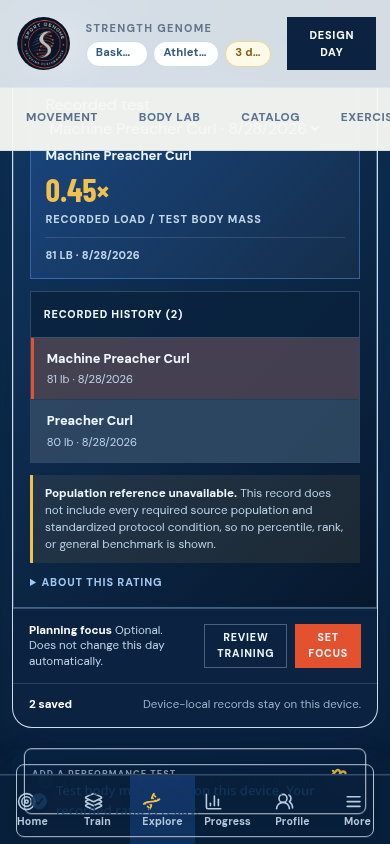
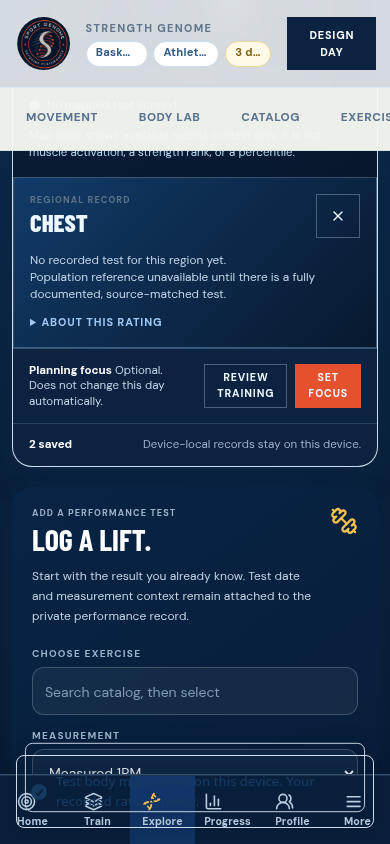
Checkpoint: Published an accessible compact Strength Genome region selector alongside the interactive body map. Athletes can now open either recorded or unrecorded regional detail without relying on SVG click targets; each selector button has a 44px target and accurately states Recorded or No test. 

diff --git a/client/src/index.css b/client/src/index.css
@@ -842,6 +842,7 @@ select {
 .strength-body-map { padding: clamp(1rem, 3vw, 1.5rem); background: linear-gradient(145deg, #0b294b, #07182e); color: #edf7ff; }
 .strength-body-map-head { display: flex; align-items: flex-start; justify-content: space-between; gap: 1rem; }.strength-body-map-head h2 { margin-top: .25rem; font-family: var(--font-display, "Barlow Condensed", sans-serif); font-size: clamp(1.8rem, 5vw, 2.8rem); font-weight: 800; line-height: .9; text-transform: uppercase; }.strength-body-map-head h2 em { color: #f2c14d; }.strength-body-map-head button { display: inline-flex; min-height: 44px; align-items: center; gap: .45rem; border: 1px solid rgb(164 200 232 / .45); background: rgb(255 255 255 / .06); padding: 0 .75rem; color: #edf7ff; font-size: .7rem; font-weight: 900; letter-spacing: .08em; text-transform: uppercase; }
 .strength-body-chart { min-height: 400px; margin-top: 1rem; border: 1px solid rgb(164 200 232 / .25); background: radial-gradient(circle at center, rgb(45 108 223 / .14), transparent 68%); }.strength-body-chart .body-chart { max-width: 100%; }.strength-body-map-legend { display: flex; flex-wrap: wrap; gap: .75rem 1rem; margin-top: 1rem; color: #c3d7ea; font-size: .72rem; }.strength-body-map-legend span { display: inline-flex; align-items: center; gap: .42rem; }.strength-body-map-legend i { width: .7rem; height: .7rem; border-radius: 999px; }.strength-map-observed { background: #db2f24; }.strength-map-focus { background: #d5ad43; }.strength-map-empty { border: 1px solid #8eaac4; background: #c0cdd6; }.strength-body-map-boundary, .strength-body-map-fallback { margin: .8rem 0 0; color: #b9d5ee; font-size: .72rem; line-height: 1.5; }
+.strength-map-region-selector { margin-top: .85rem; border: 1px solid rgb(164 200 232 / .24); background: rgb(0 0 0 / .14); }.strength-map-region-selector summary { min-height: 44px; display: flex; align-items: center; padding: 0 .8rem; color: #edf7ff; cursor: pointer; font-size: .72rem; font-weight: 900; letter-spacing: .08em; text-transform: uppercase; }.strength-map-region-selector[open] summary { border-bottom: 1px solid rgb(164 200 232 / .18); }.strength-map-region-selector > div { display: grid; grid-template-columns: repeat(auto-fit, minmax(124px, 1fr)); gap: .45rem; padding: .65rem; }.strength-map-region-selector button { min-height: 44px; display: flex; align-items: center; justify-content: space-between; gap: .45rem; border: 1px solid rgb(164 200 232 / .22); background: rgb(255 255 255 / .045); padding: .45rem .6rem; color: #dcecf9; text-align: left; }.strength-map-region-selector button[aria-pressed="true"] { border-color: #f2c14d; background: rgb(242 193 77 / .14); color: #fff4cc; }.strength-map-region-selector button span { font-size: .72rem; font-weight: 800; line-height: 1.1; }.strength-map-region-selector button small { color: #9fb9d2; font-size: .59rem; font-weight: 800; text-transform: uppercase; }.strength-map-region-selector button[aria-pressed="true"] small { color: #f5d981; }
 
 .strength-region-record-detail { border: 1px solid rgb(164 200 232 / .3); background: linear-gradient(135deg, #123b68, #07182e); padding: clamp(1rem, 3vw, 1.5rem); color: #edf7ff; }.strength-region-record-detail h2 { margin-top: .25rem; font-family: var(--font-display, "Barlow Condensed", sans-serif); font-size: clamp(1.55rem, 4vw, 2.25rem); font-weight: 800; line-height: .9; text-transform: uppercase; }.strength-region-record-detail h2 em { color: #f2c14d; }.strength-region-record-list { display: grid; gap: .5rem; margin-top: 1rem; }.strength-region-record-list article { display: grid; gap: .2rem; border-left: 2px solid #f2c14d; background: rgb(255 255 255 / .06); padding: .7rem .8rem; }.strength-region-record-list strong { color: #fff; font-size: .85rem; }.strength-region-record-list span, .strength-region-record-empty { color: #c3d7ea; font-size: .74rem; line-height: 1.45; }.strength-region-record-empty { margin-top: .85rem; }.strength-region-reference-boundary { margin-top: 1rem; border-left: 2px solid #e4512e; padding-left: .75rem; color: #c3d7ea; font-size: .74rem; line-height: 1.45; }.strength-region-reference-boundary strong { color: #ffd2c4; }
 .strength-body-mass-ratio { display: inline-flex; width: fit-content; align-items: baseline; gap: .35rem; margin-top: .35rem; color: #f2c14d; font-family: var(--font-display, "Barlow Condensed", sans-serif); font-size: 1.45rem; line-height: 1; }.strength-body-mass-ratio small, .strength-body-mass-missing { color: #c3d7ea; font-family: var(--font-sans, sans-serif); font-size: .68rem; font-weight: 700; letter-spacing: .03em; text-transform: uppercase; }.strength-body-mass-missing { display: block; margin-top: .35rem; }

diff --git a/client/src/components/StrengthGenomeBodyMap.tsx b/client/src/components/StrengthGenomeBodyMap.tsx
@@ -54,6 +54,12 @@ export function StrengthGenomeBodyMap({ regions, activePriorityIds, selectedRegi
   return <section className="strength-body-map" aria-label="Interactive strength context body map">
     <div className="strength-body-map-head"><div><p className="metric-label">Regional context map</p><h2>Tap a region to inspect <em>your record.</em></h2></div><button type="button" onClick={() => setView((current) => current === "FRONT" ? "BACK" : "FRONT")}><RotateCw className="h-4 w-4" /> {view === "FRONT" ? "Back" : "Front"}</button></div>
     {failed ? <p className="strength-body-map-fallback">The anatomy view is unavailable. Use a standardized observation to build your record.</p> : <div ref={mapRef} className="strength-body-chart" />}
+    <details className="strength-map-region-selector">
+      <summary>Choose a region</summary>
+      <div role="list" aria-label="Strength Genome regions">
+        {regions.map((region) => <button key={region.id} type="button" role="listitem" aria-pressed={selectedRegionId === region.id} onClick={() => onSelect(region)}><span>{region.label}</span><small>{region.state === "OBSERVED_TEST_CONTEXT" ? "Recorded" : "No test"}</small></button>)}
+      </div>
+    </details>
     <div className="strength-body-map-legend"><span><i className="strength-map-observed" /> Recorded test context</span><span><i className="strength-map-focus" /> Athlete-selected focus</span><span><i className="strength-map-empty" /> No mapped test context</span></div>
     <p className="strength-body-map-boundary">Map color shows available record context only. It is not muscle activation, a strength rank, or a percentile.</p>
   </section>;

diff --git a/client/src/components/StrengthGenomeBodyMap.accessibility.test.ts b/client/src/components/StrengthGenomeBodyMap.accessibility.test.ts
@@ -1,0 +1,19 @@
+import { describe, expect, it } from "vitest";
+import fs from "node:fs";
+import path from "node:path";
+
+const source = fs.readFileSync(path.resolve(process.cwd(), "client/src/components/StrengthGenomeBodyMap.tsx"), "utf8");
+const styles = fs.readFileSync(path.resolve(process.cwd(), "client/src/index.css"), "utf8");
+
+describe("Strength Genome body-map accessible region selection", () => {
+  it("keeps a compact selector available for recorded and unrecorded regions without implying rank", () => {
+    const selector = source.split('className="strength-map-region-selector"')[1].split('className="strength-body-map-legend"')[0];
+    expect(source).toContain('className="strength-map-region-selector"');
+    expect(source).toContain('aria-label="Strength Genome regions"');
+    expect(source).toContain('aria-pressed={selectedRegionId === region.id}');
+    expect(source).toContain('region.state === "OBSERVED_TEST_CONTEXT" ? "Recorded" : "No test"');
+    expect(source).toContain('onClick={() => onSelect(region)}');
+    expect(selector).not.toContain("percentile");
+    expect(styles).toContain(".strength-map-region-selector button { min-height: 44px");
+  });
+});

diff --git a/client/src/components/StrengthGenomePanel.tsx b/client/src/components/StrengthGenomePanel.tsx
@@ -172,7 +172,9 @@ export function StrengthGenomePanel({ onOpenTraining = () => {}, weightUnit = "l
     if (!selectedRegion || !detail || typeof window === "undefined") return;
     const frame = window.requestAnimationFrame(() => {
       const reduceMotion = window.matchMedia?.("(prefers-reduced-motion: reduce)").matches;
-      detail.scrollIntoView({ block: "start", behavior: reduceMotion ? "auto" : "smooth" });
+      const stickyOffset = window.matchMedia?.("(max-width: 640px)").matches ? 172 : 28;
+      const targetTop = Math.max(0, window.scrollY + detail.getBoundingClientRect().top - stickyOffset);
+      window.scrollTo({ top: targetTop, behavior: reduceMotion ? "auto" : "smooth" });
       detail.querySelector<HTMLElement>("[data-strength-region-heading]")?.focus({ preventScroll: true });
     });
     return () => window.cancelAnimationFrame(frame);

diff --git a/client/src/components/StrengthGenomePanel.test.ts b/client/src/components/StrengthGenomePanel.test.ts
@@ -100,7 +100,8 @@ describe("Strength Genome panel", () => {
   it("moves a newly selected region into view with reduced-motion-safe behavior and focuses its heading", () => {
     expect(source).toContain("const regionDetailRef = useRef<HTMLDivElement | null>(null)");
     expect(source).toContain('window.matchMedia?.("(prefers-reduced-motion: reduce)").matches');
-    expect(source).toContain('detail.scrollIntoView({ block: "start", behavior: reduceMotion ? "auto" : "smooth" })');
+    expect(source).toContain('const stickyOffset = window.matchMedia?.("(max-width: 640px)").matches ? 172 : 28');
+    expect(source).toContain('window.scrollTo({ top: targetTop, behavior: reduceMotion ? "auto" : "smooth" })');
     expect(source).toContain('data-strength-region-heading');
     expect(source).toContain('focus({ preventScroll: true })');
   });

diff --git a/todo.md b/todo.md
@@ -42,10 +42,12 @@
 - [x] Add focused ratio and no-body-mass regression coverage in the Strength Genome region detail.
 - [x] Replace the Strength Genome long regional no-data list with the existing interactive full-body qualitative map.
 - [x] Use categorical color to distinguish recorded test context, athlete-confirmed focus, and no mapped test context without implying activation or strength rank.
-- [ ] Open a region detail panel on body-map selection showing raw athlete records, valid reference context when available, and explicit no-data or non-comparable boundaries instead of invented percentiles or ranks.
+- [x] Open a region detail panel on body-map selection showing raw athlete records, valid reference context when available, and explicit no-data or non-comparable boundaries instead of invented percentiles or ranks.
 - [x] Render selected-region raw observation history by filtering saved observations through the recorded Strength Genome region/domain routing.
-- [ ] Add evidence-bounded selected-region reference context only when a reviewed reference exists, with explicit no-reference and non-comparable states otherwise.
-- [ ] Add focused Strength Genome body-map coverage for observed-region detail, no-data detail, and the prohibition on invented percentile or rank output.
+- [x] Add evidence-bounded selected-region reference context only when a reviewed reference exists, with explicit no-reference and non-comparable states otherwise.
+- [x] Add focused Strength Genome body-map coverage for observed-region detail, no-data detail, and the prohibition on invented percentile or rank output.
+- [x] Provide a compact accessible region selector alongside the interactive body map so athletes can inspect unrecorded as well as recorded regions without relying only on SVG clicks.
+- [x] Browser-verify that the Strength Genome region selector opens both a recorded test detail and a no-test detail at phone width without displaying a percentile or rank.
 - [x] Present selected-region direct-access record history with a concise explicit unavailable-reference state when no exact reviewed reference applies.
 - [x] Move a newly selected Strength Genome region detail into a readable mobile position and focus its accessible heading without forcing motion for reduced-motion users.
 - [x] Require matching recorded test conditions for within-athlete Strength Genome load comparisons, returning an explicit non-comparable state rather than a misleading change card.
